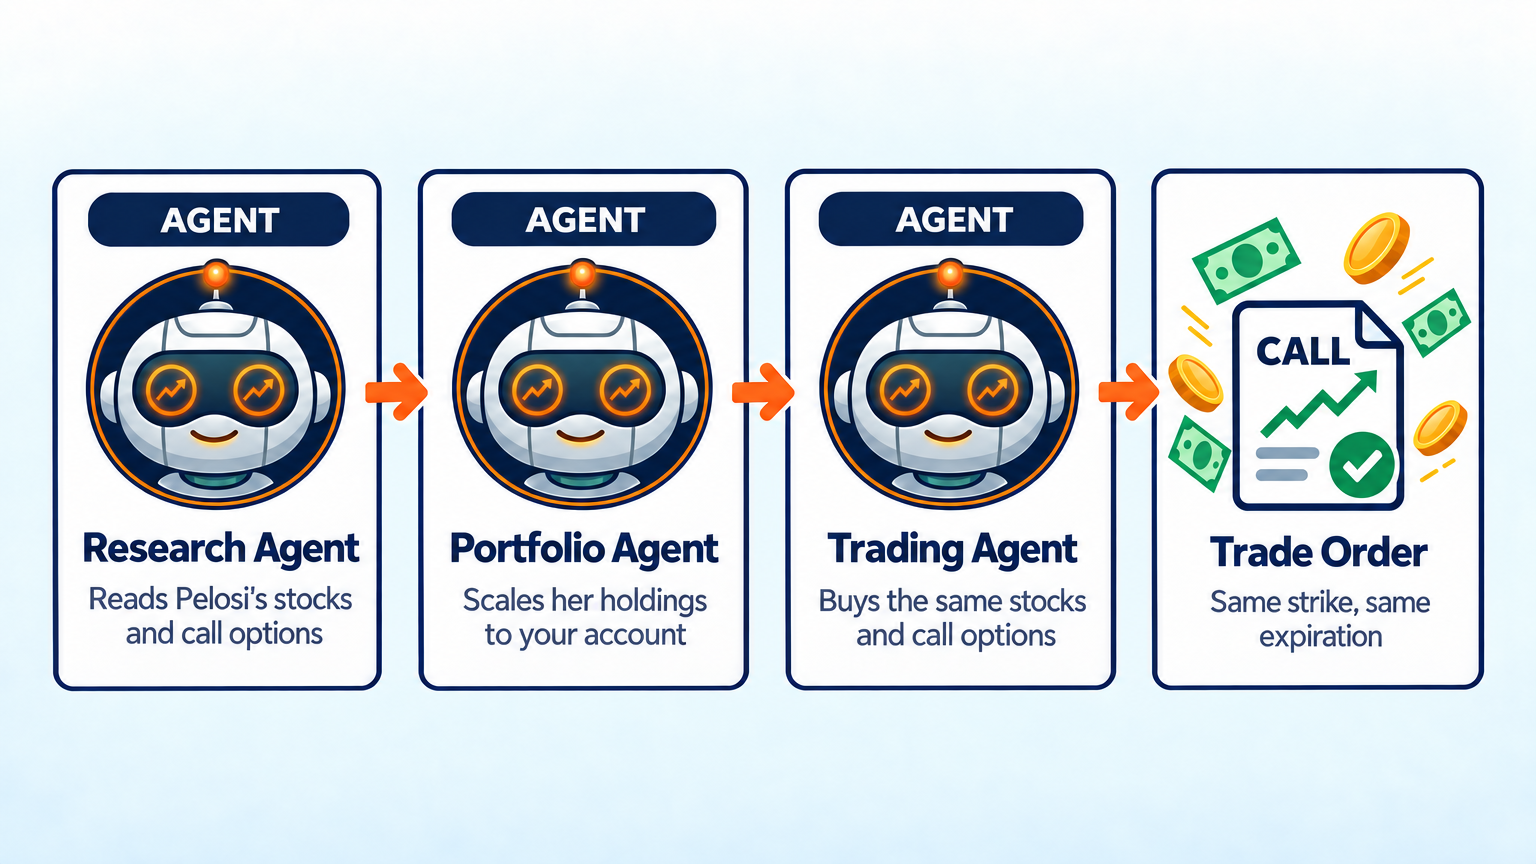
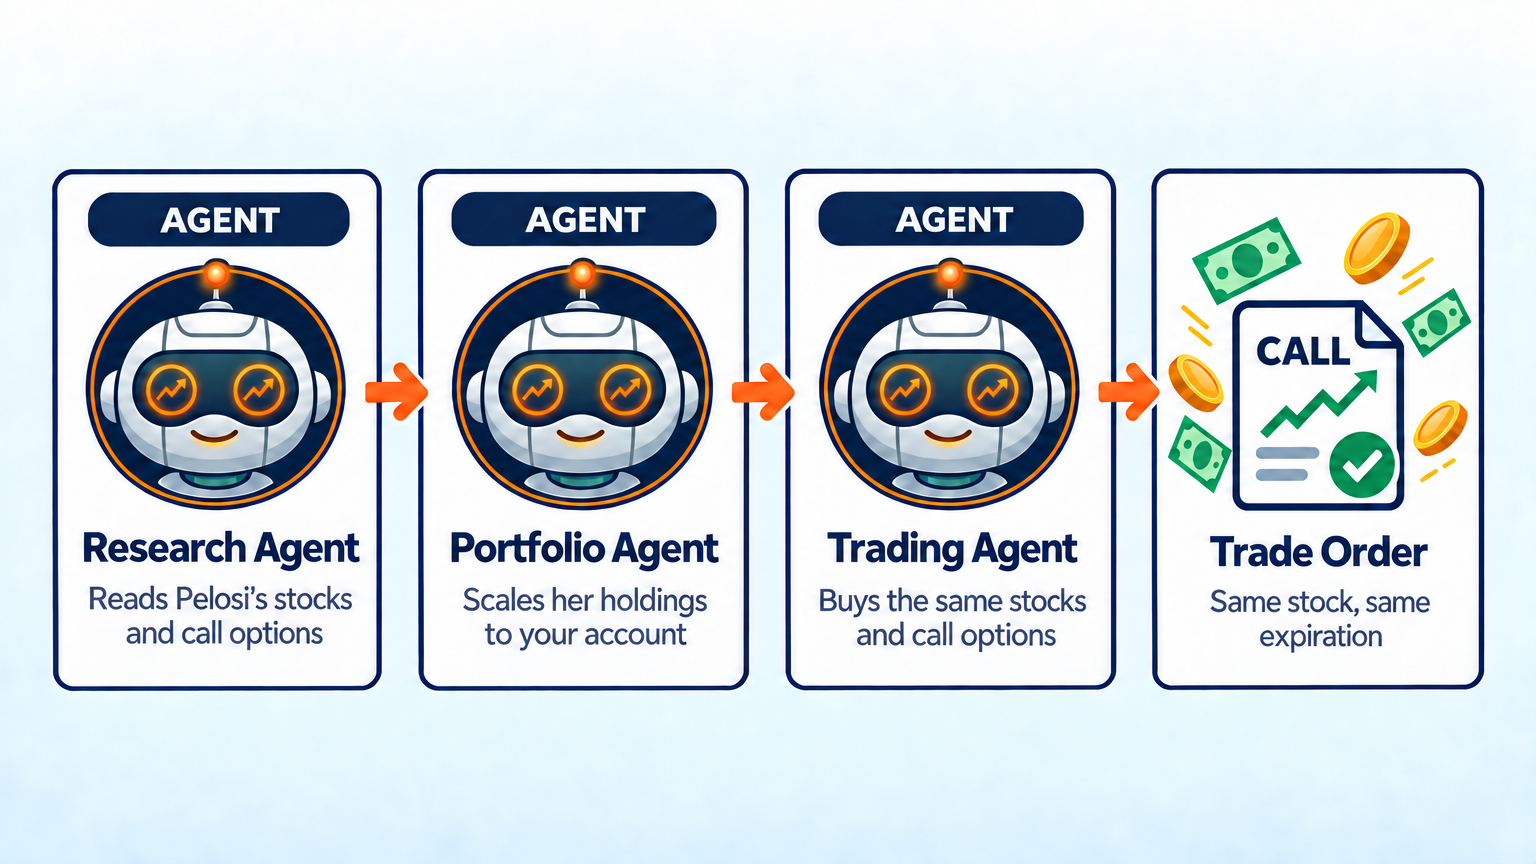
Pelosi copy bot works in normal accounts: an options slice and the nearest affordable strike
Rob: it has to work at $100k and ideally $10k, not $1M. Her calls cost
$9,000 to $18,000 a contract (deep in the money), so exact strikes never fit.
The bot now puts options_share (default 20%) of the account into calls on the
same stocks with the same expiration dates, split by her call values, using her
strike when one contract fits and the nearest higher strike that fits when not.
Page and workflow image updated (last card: same stock, same expiration).
Full-year backtests running at $100k and $10k (WAVE98).

Tests: .venv/bin/python -m pytest tests/docs tests/test_agent_capability_docs.py tests/test_ai_example_strategies.py tests/backtest/test_ai_example_strategies_backtest.py tests/test_agent_tool_permissions.py -q -> all passed

diff --git a/lumibot/example_strategies/ai_nancy_pelosi_copy_trading_bot.py b/lumibot/example_strategies/ai_nancy_pelosi_copy_trading_bot.py
@@ -1,8 +1,10 @@
 """Nancy Pelosi Copy Trading Bot.
 
-Copies Nancy Pelosi's whole portfolio, call options included: the same stocks
-and the same call options (same strike price, same expiration date), scaled to
-the size of your account. A research agent reads her reports on the House Clerk
+Copies Nancy Pelosi's whole portfolio, call options included: her stocks, and
+calls on the same stocks with the same expiration dates. Her calls cost $9,000 to
+$18,000 a contract, so the bot uses her strike when it fits your account and the
+nearest cheaper strike when it does not. "options_share" sets how much of the
+account goes to calls. A research agent reads her reports on the House Clerk
 website, a portfolio agent sizes each holding, and a trading agent rebalances
 only when a new report appears. Change "last_name" to copy any House member.
 """
@@ -13,7 +15,7 @@ HOUSE = "https://disclosures-clerk.house.gov/public_disc"
 
 
 class NancyPelosiCopyTradingBot(Strategy):
-    parameters = {"last_name": "Pelosi"}
+    parameters = {"last_name": "Pelosi", "options_share": 0.2}
 
     def initialize(self):
         self.sleeptime = "1D"
@@ -41,21 +43,23 @@ class NancyPelosiCopyTradingBot(Strategy):
             name="portfolio",
             allow_trading=False,
             system_prompt=(
-                "You scale a member's holdings to our account. Use the middle of each dollar range as the value of "
-                "that holding. Each holding's weight is its value divided by the total value of all holdings. For "
-                "a stock, the target is that percent of the account in shares. For a call option, the target is "
-                "that percent of the account spent on the same call: same stock, same strike price, same expiration "
-                "date. Her calls are a small share of her money but control a lot of stock, so always hold at least "
-                "one contract of each call she owns when one contract costs less than 5% of the account. Do the math "
-                "with a calculator, not in your head. Return one line per holding with its target. Do not trade."
+                "You scale a member's holdings to our account. Put options_share of the account into her call "
+                "options and the rest into her stocks. Use the middle of each dollar range as a holding's value. "
+                "Stocks: each stock gets its value divided by the total value of her stocks. Calls: split the "
+                "options money across her calls in proportion to their values. For each call use the same stock "
+                "and the same expiration date. Use her strike if one contract fits that call's money; if not, use "
+                "the nearest higher strike where one contract fits, and buy as many contracts as fit. If no strike "
+                "fits, give that money to her other calls. Do the math with a calculator, not in your head. "
+                "Return one line per holding: the stock and its target percent, or the exact call (strike and "
+                "expiration) and its number of contracts. Do not trade."
             ),
         )
         self.agents.create(
             name="trader",
             allow_trading=True,
             system_prompt=(
-                "You move the account to the targets in the plan: shares for stocks, and the exact call option "
-                "(same strike price and expiration date) for options. Sell every holding that is not in the plan "
+                "You move the account to the targets in the plan: shares for stocks, and the exact call options "
+                "in the plan (its strike price, expiration date, and number of contracts). Sell every holding that is not in the plan "
                 "and buy every holding in the plan you do not own yet. Only change a holding you already own when "
                 "it is more than 2 percentage points away from its target, so the account does not trade every "
                 "day. Sell before you buy, never short, never sell options you do not own, and never spend more "
@@ -68,7 +72,10 @@ class NancyPelosiCopyTradingBot(Strategy):
         research = self.agents["researcher"].run(task_prompt="What does the member own today?", context=facts)
         if "NOTHING NEW" in (research.summary or ""):
             return  # No new report, so no rebalance today.
-        plan = self.agents["portfolio"].run(task_prompt="Set the targets.", context={"holdings": research.summary})
+        plan = self.agents["portfolio"].run(
+            task_prompt="Set the targets.",
+            context={"holdings": research.summary, "options_share": self.parameters["options_share"]},
+        )
         self.agents["trader"].run(task_prompt="Rebalance to the plan.", context={"plan": plan.summary})
 
 

diff --git a/scripts/run_ai_strategy_flash_backtests.py b/scripts/run_ai_strategy_flash_backtests.py
@@ -801,6 +801,14 @@ WAVE97 = (
 )
 
 
+# Copy bot with an options slice (options_share 20%) and the nearest affordable strike,
+# at the account sizes customers actually use.
+WAVE98 = (
+    _job("pelosi-copy-2026-100k", "ai_nancy_pelosi_copy_trading_bot", "NancyPelosiCopyTradingBot", "2026-01-02", "2026-09-25", "alpaca", 4000),
+    {**_job("pelosi-copy-2026-10k", "ai_nancy_pelosi_copy_trading_bot", "NancyPelosiCopyTradingBot", "2026-01-02", "2026-09-25", "alpaca", 4000), "budget": 10_000},
+)
+
+
 def _jobs(wave: str) -> tuple[dict, ...]:
     # "7,8" runs several waves under one parent so the spend cap is shared.
     if "," in wave:

diff --git a/docsrc/agents_example_nancy_pelosi_copy_trading_bot.rst b/docsrc/agents_example_nancy_pelosi_copy_trading_bot.rst
@@ -2,13 +2,13 @@ Nancy Pelosi Copy Trading Bot
 =============================
 
 .. meta::
-   :description: This AI bot copies Nancy Pelosi's whole portfolio, call options included: same stocks, same strike, same expiration, scaled to your account. Free Python code for LumiBot.
+   :description: This AI bot copies Nancy Pelosi's whole portfolio, call options included: her stocks plus calls on the same stocks with the same expiration, sized to your account. Free Python code for LumiBot.
 
 .. image:: ../docs/assets/ai-agent-workflows/nancy-pelosi-copy-trading-bot.png
    :alt: Research agent reads Pelosi's stocks and call options, portfolio agent scales them to your account, trading agent buys the same stocks and call options
    :width: 100%
 
-Most Pelosi copy bots only buy her stocks. But much of her trading is call options: in her January 23, 2026 report alone she bought call options on Alphabet, Amazon, Apple and Nvidia that expire in January 2027 (`House Clerk report <https://disclosures-clerk.house.gov/public_disc/ptr-pdfs/2026/20033725.pdf>`__). This bot copies those too. It holds the same stocks and the same call options, with the same strike price and the same expiration date, scaled to the size of your account.
+Most Pelosi copy bots only buy her stocks. But much of her trading is call options: in her January 23, 2026 report alone she bought call options on Alphabet, Amazon, Apple and Nvidia that expire in January 2027 (`House Clerk report <https://disclosures-clerk.house.gov/public_disc/ptr-pdfs/2026/20033725.pdf>`__). This bot copies those too: it holds her stocks, plus calls on the same stocks with the same expiration dates, sized to your account.
 
 Only want her stocks? Use the :doc:`agents_example_nancy_pelosi_trading_bot`.
 
@@ -17,8 +17,8 @@ How it works
 
 1. **Research agent** goes to the House Clerk website (disclosures-clerk.house.gov) and opens the yearly list of filings. It finds Pelosi's newest yearly report, which lists every stock and call option she owned on December 31, and every trade report filed since.
 2. The research agent works out what she owns today: every stock, and every call option with its number of contracts, strike price and expiration date. It skips options that have already expired and only uses reports filed before today.
-3. **Portfolio agent** scales her holdings to your account. If a stock is 10% of her portfolio, the bot puts 10% of your account into it. Her calls are a small slice of her money but control a lot of stock, so the bot always holds at least one contract of each call she owns, as long as one contract costs less than 5% of your account.
-4. **Trading agent** buys and sells the same stocks and call options, with the same strike price and expiration date, and checks that every order filled.
+3. **Portfolio agent** sizes everything to your account. By default 20% goes to her calls and the rest to her stocks, in her proportions. Her calls cost $9,000 to $18,000 a contract, more than a normal account can spread around, so the bot uses her exact strike when it fits and otherwise the nearest cheaper strike with the same expiration date.
+4. **Trading agent** buys and sells the stocks and calls in the plan, and checks that every order filled.
 5. The bot checks once a day, but it only trades when she files a new report, so it does not trade every day.
 
 Want a different member of Congress? Change ``last_name`` from ``"Pelosi"`` to any House member's last name.
@@ -49,8 +49,9 @@ Put these in your ``.env`` file: ``OPENAI_API_KEY``, and your broker keys (for e
 Good to know
 ------------
 
-* Her calls are expensive: in January 2026 one contract of her January 2027 calls cost $9,400 to $18,500. Under the 5% rule, you need an account of about $400,000 to hold one of each. A smaller account copies her stocks and skips the calls it cannot afford.
-* Call options can lose all their value by the expiration date. The bot copies her options exactly, so it takes the same risk she does.
+* Change ``options_share`` to put more or less of your account into calls. Set it to ``0`` to copy only her stocks.
+* A cheaper strike is a bigger bet on the stock going up than her strike: it is cheaper because it pays off only above a higher price.
+* Call options can lose all their value by the expiration date.
 * Members of Congress can take up to 45 days to report a trade, so the bot always buys late, often at a different price than she paid.
 * Reports show dollar ranges, such as $1,000,001 to $5,000,000. The bot uses the middle of each range.
 * The yearly report comes out in May and shows what she owned on December 31. Until the new one is filed, the bot starts from the year before and adds every trade since.

diff --git a/docsrc/agents_examples.rst b/docsrc/agents_examples.rst
@@ -22,7 +22,7 @@ Copy famous investors and insiders
 ----------------------------------
 
 * :doc:`agents_example_nancy_pelosi_trading_bot`: owns the same stocks as Nancy Pelosi, rebuilt from her reports on the House website.
-* :doc:`agents_example_nancy_pelosi_copy_trading_bot`: copies her whole portfolio, call options included: same strike, same expiration.
+* :doc:`agents_example_nancy_pelosi_copy_trading_bot`: copies her whole portfolio, call options included, sized to your account.
 * :doc:`agents_example_insider_trading_bot`: buys more of the stocks that CEOs and directors are buying with their own money.
 * :doc:`agents_example_warren_buffett_ai_stock_picker`: owns great companies at fair prices, the way Warren Buffett describes it.
 * :doc:`agents_example_bill_ackman_portfolio_ai_trading_bot`: holds a few high-conviction stocks, the way Bill Ackman invests.
